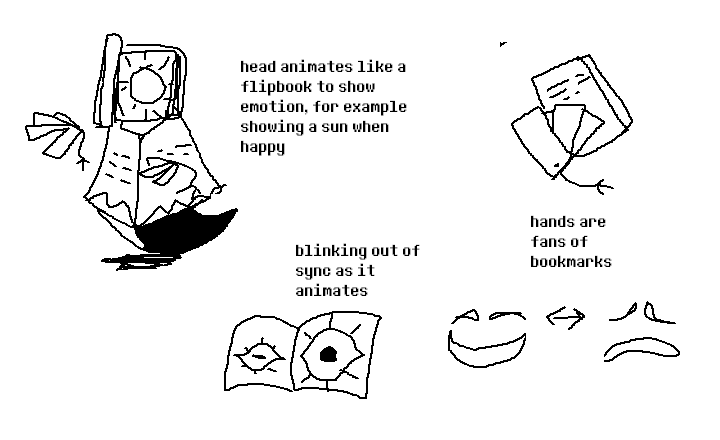
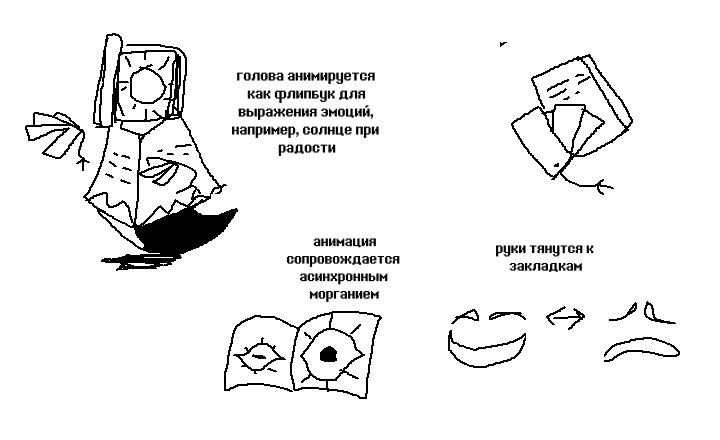
Added new sprites

Changed region(s): [[0.3056, 0.1182, 0.5806, 0.3545], [0.3972, 0.5318, 0.5806, 0.6795], [0.6722, 0.4727, 0.8556, 0.6205]]

diff --git a/index.html b/index.html
@@ -137,10 +137,9 @@
         <p>Доделать графику хоть и заняло много времени, но это не стало каким-то препятствием... Если в 3 главе и было
           препятствие, то это был геймплей.</p>
 
-        <a href="https://toby.fangamer.com/assets/interviews/chapter3-chapter4/images/boardcolors.png"
-          class="cursor-zoom-in" data-fancybox=""><img class=" ls-is-cached lazyloaded"
-            src="index_files/boardcolors_thumb.png" height="427" width="800"></a>
-        <p class="text-sm text-gray-400 text-center -mt-4">Concept art by Gigi DG</p>
+        <a href="index_files/boardcolors.png" class="cursor-zoom-in" data-fancybox=""><img
+            class=" ls-is-cached lazyloaded" src="index_files/boardcolors_thumb.png" height="427" width="800"></a>
+        <p class="text-sm text-gray-400 text-center -mt-4">Концепт-арт от Gigi DG</p>
 
         <p>Я перебрал множество идей для игровых досок. Изначально я хотел, чтобы это было похоже на Mario Party или
           базу Блэка из Gunstar Heroes... затем я понял, что создание такого будет не только неэффективным, но и

diff --git a/index_files/index.5PMJA7MH.css b/index_files/index.5PMJA7MH.css
@@ -12,7 +12,7 @@ h1 { font-size: 2em !important; }
 h2 { font-size: 1.5em !important; }
 
 body {
-    font-size: 22px !important;
+    font-size: 22.5px !important;
 }
 
 @font-face {
